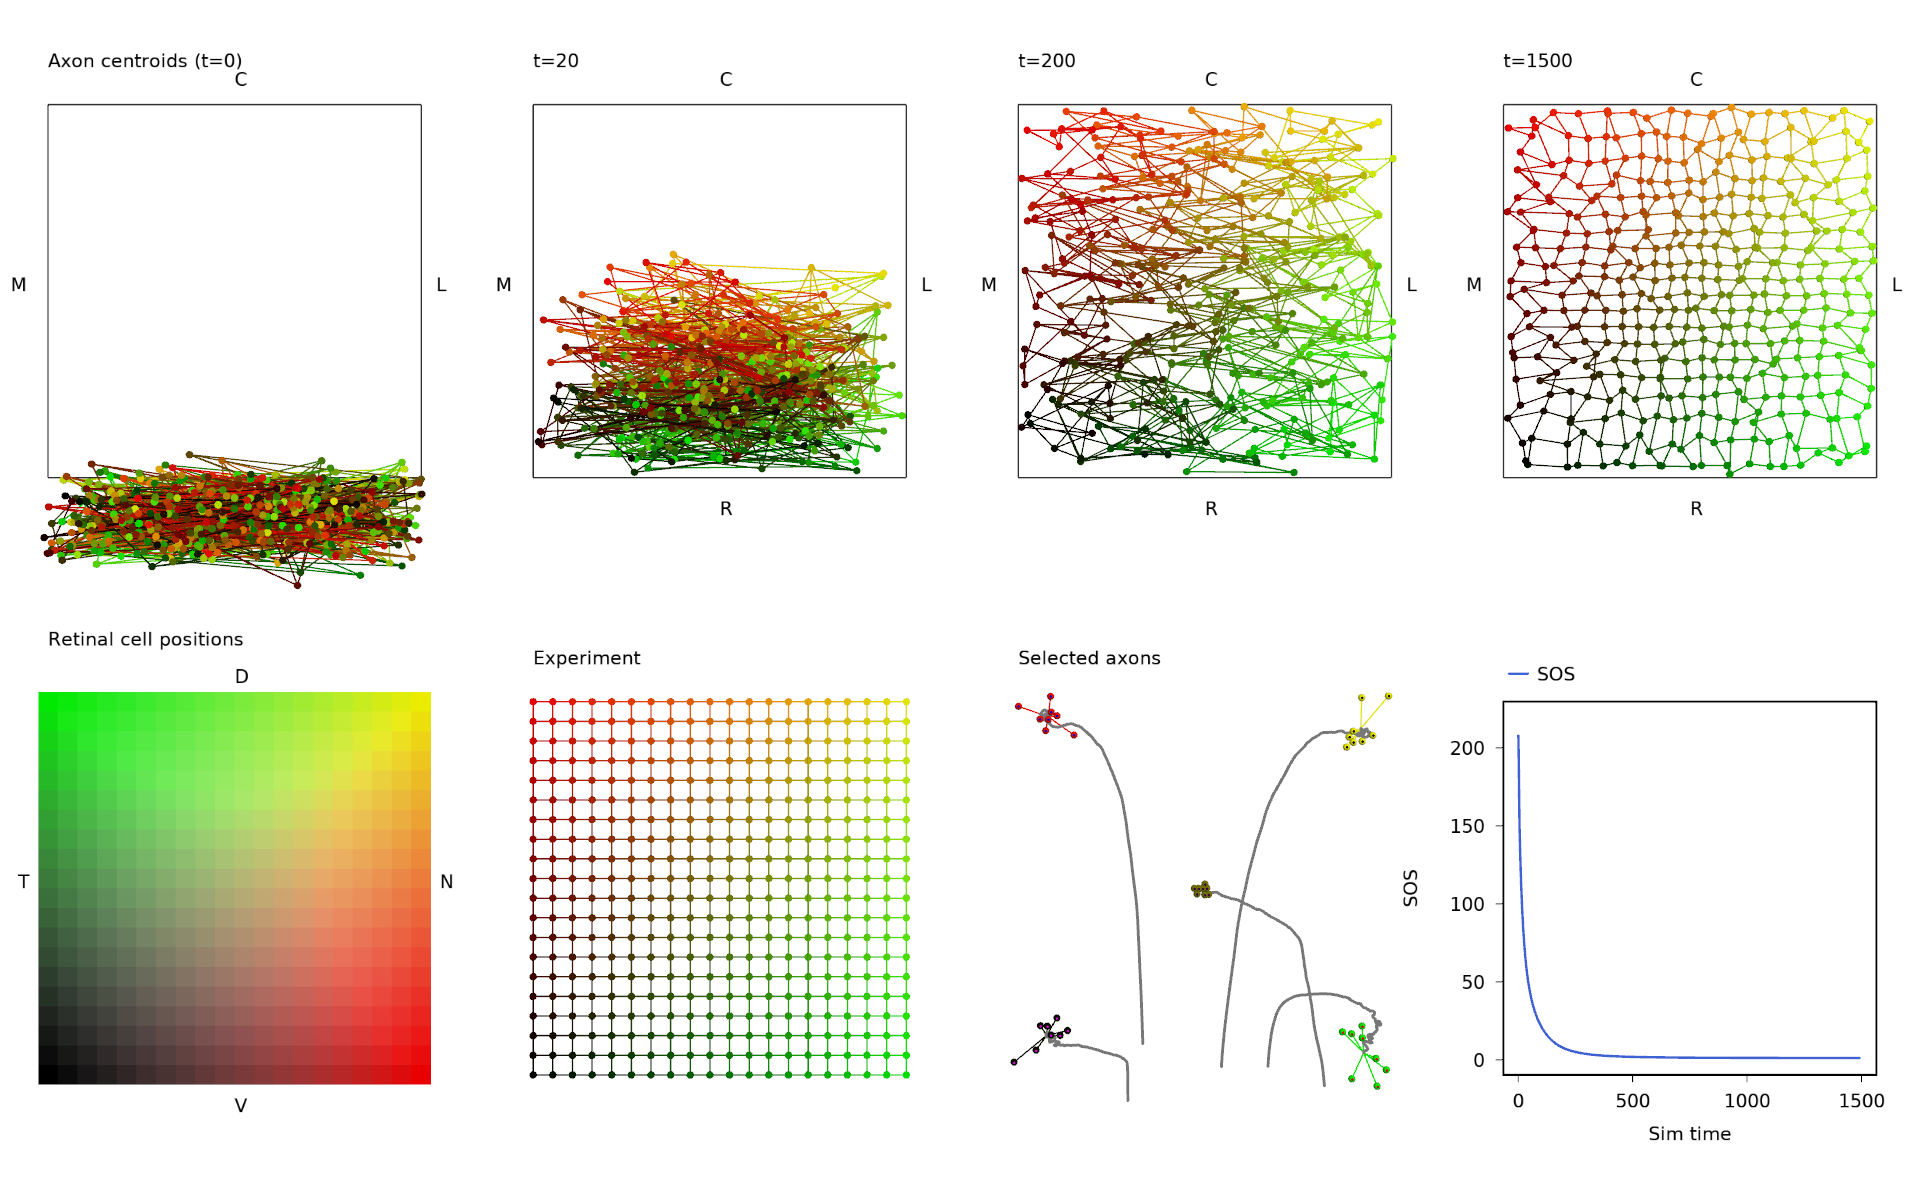
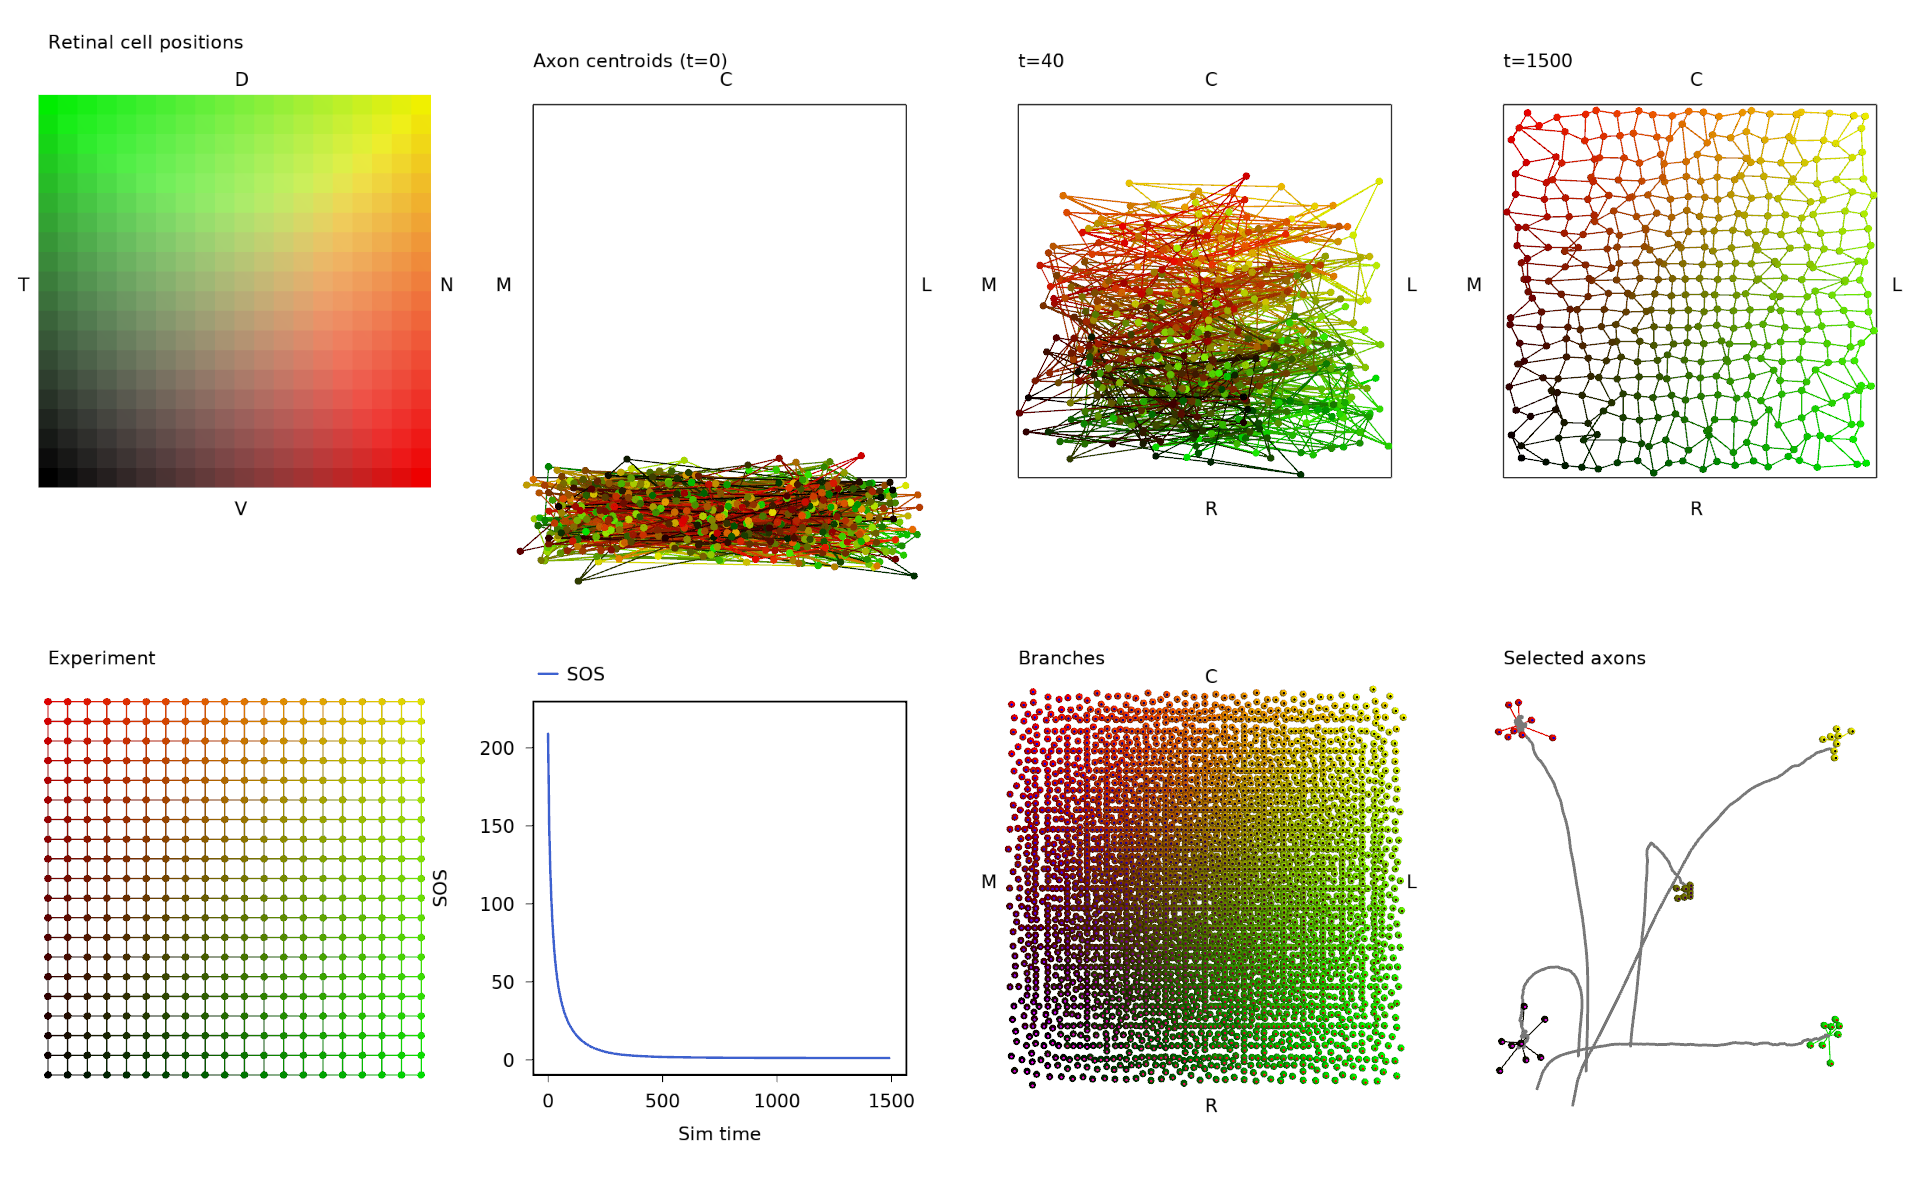
Final Tuesday updates/WIP

diff --git a/sim/agent/agent1.h b/sim/agent/agent1.h
@@ -163,14 +163,12 @@ struct Agent1
             glfwPollEvents();
         }
 
-        if (this->layout != graph_layout::c) {
-            this->bv->reinit(); // Branches
-        }
+        this->bv->reinit(); // Branches
 
         // Centroids that should show up to a certain time
         if (this->layout == graph_layout::c) {
             if (stepnum <= this->freeze_times[1]) { this->cv1->reinit(); }
-            if (stepnum <= this->freeze_times[2]) { this->cv2->reinit(); }
+            //if (stepnum <= this->freeze_times[2]) { this->cv2->reinit(); }
             //if (stepnum <= this->freeze_times[3]) { this->cv3->reinit(); }
         }
         this->cv->reinit(); // Centroids to end
@@ -1000,45 +998,19 @@ struct Agent1
 
         } else  if (this->layout == graph_layout::c) { // Layout with diff. time end points
 
-            offset[1] -= 1.6f;
-
             // A Retinal cell positions
             v->addVisualModel (this->createTissueVisual (v->shaderprog, v->tshaderprog, offset, ret, "Retinal", expression_view::cell_positions, 0, 2));
 
+            offset[1] -= 1.6f;
+
             // B Experiment: Another NetVisual view showing the target locations
-            offset[0] += 1.3f;
             this->tcv = new NetVisual<T> (v->shaderprog, v->tshaderprog, offset, &this->ax_centroids);
             this->tcv->viewmode = netvisual_viewmode::targetplus;
             this->tcv->finalize();
             this->tcv->addLabel ("Experiment", {0.0f, 1.1f, 0.0f});
             v->addVisualModel (this->tcv);
 
-            // C Selected axons: This one gives an 'axon view'
             offset[0] += 1.3f;
-            this->av = new BranchVisual<T, N, B> (v->shaderprog, v->tshaderprog, offset, &this->branches, &this->ax_history);
-            this->av->axonview = true;
-            for (auto sa : this->seeaxons) { this->av->seeaxons.insert(sa); }
-            this->av->rcpt_scale.compute_autoscale (rcpt_min, rcpt_max);
-            this->av->target_scale.compute_autoscale (0, 1);
-            this->av->finalize();
-            this->av->addLabel ("Selected axons", {0.0f, 1.1f, 0.0f});
-            v->addVisualModel (this->av);
-
-            offset[0] += 1.3f;
-
-            // D Graph: A graph of the SOS diffs between axon position centroids and target positions from retina
-            this->gv = new morph::GraphVisual<T> (v->shaderprog, v->tshaderprog, offset);
-            this->gv->twodimensional = false;
-            this->gv->setlimits (0, this->conf->getFloat ("steps", 1000),
-                                 0, this->conf->getFloat("graph_ymax", 200.0f));
-            this->gv->policy = morph::stylepolicy::lines;
-            this->gv->ylabel = "SOS";
-            this->gv->xlabel = "Sim time";
-            this->gv->prepdata ("SOS");
-            this->gv->finalize();
-            v->addVisualModel (this->gv);
-
-            offset[0] -= 3.9f;
             offset[1] += 1.6f;
 
             // t=0
@@ -1062,6 +1034,7 @@ struct Agent1
             this->addOrientationLabels (this->cv1, std::string("Tectal"));
             v->addVisualModel (this->cv1);
 
+#if 0
             // Axon centroids2: Centroids of branches viewed with a NetVisual
             offset[0] += 1.3f;
             this->cv2 = new NetVisual<T> (v->shaderprog, v->tshaderprog, offset, &this->ax_centroids);
@@ -1074,7 +1047,6 @@ struct Agent1
             this->addOrientationLabels (this->cv2, std::string("Tectal"));
             v->addVisualModel (this->cv2);
 
-#if 0
             // Axon centroids3: Centroids of branches viewed with a NetVisual
             offset[0] += 1.3f;
             this->cv3 = new NetVisual<T> (v->shaderprog, v->tshaderprog, offset, &this->ax_centroids);
@@ -1098,6 +1070,41 @@ struct Agent1
             this->addOrientationLabels (this->cv, std::string("Tectal"));
             v->addVisualModel (this->cv);
 
+            offset[0] -= 2.6f;
+            offset[1] -= 1.6f;
+
+            // D Graph: A graph of the SOS diffs between axon position centroids and target positions from retina
+            this->gv = new morph::GraphVisual<T> (v->shaderprog, v->tshaderprog, offset);
+            this->gv->twodimensional = false;
+            this->gv->setlimits (0, this->conf->getFloat ("steps", 1000),
+                                 0, this->conf->getFloat("graph_ymax", 200.0f));
+            this->gv->policy = morph::stylepolicy::lines;
+            this->gv->ylabel = "SOS";
+            this->gv->xlabel = "Sim time";
+            this->gv->prepdata ("SOS");
+            this->gv->finalize();
+            v->addVisualModel (this->gv);
+
+            // Branches: Visualise the branches with a custom VisualModel
+            offset[0] += 1.3f;
+            this->bv = new BranchVisual<T, N, B> (v->shaderprog, v->tshaderprog, offset, &this->branches, &this->ax_history);
+            this->bv->rcpt_scale.compute_autoscale (rcpt_min, rcpt_max);
+            this->bv->target_scale.compute_autoscale (0, 1);
+            this->bv->finalize();
+            this->bv->addLabel ("Branches", {0.0f, 1.1f, 0.0f});
+            this->addOrientationLabels (this->bv, std::string("Tectal"));
+            v->addVisualModel (this->bv);
+
+            // C Selected axons: This one gives an 'axon view'
+            offset[0] += 1.3f;
+            this->av = new BranchVisual<T, N, B> (v->shaderprog, v->tshaderprog, offset, &this->branches, &this->ax_history);
+            this->av->axonview = true;
+            for (auto sa : this->seeaxons) { this->av->seeaxons.insert(sa); }
+            this->av->rcpt_scale.compute_autoscale (rcpt_min, rcpt_max);
+            this->av->target_scale.compute_autoscale (0, 1);
+            this->av->finalize();
+            this->av->addLabel ("Selected axons", {0.0f, 1.1f, 0.0f});
+            v->addVisualModel (this->av);
 
         } else {
             throw std::runtime_error ("Unknown layout");

diff --git a/paper/paper.tex b/paper/paper.tex
@@ -569,32 +569,62 @@ derived from a normal distribution of mean 0 and standard deviation 0.1.
 \label{f:wt}
 \end{figure}
 
-To enable a simulation it is necessary to make the assumptions, in addition to
-those implicit in the description of the model above, that i) All
+To enable a simulation it is necessary to make the assumptions (in addition to
+those implicit in the description of the model above) that i) All
 receptor-ligand interactions are repulsive, as for EphA-ephrinA
 coupling \citep{drescher_vitro_1995,nakamoto_topographically_1996}; and ii)
 all tectal ligand expressions vary exponentially along a given axis, following
 Eq.\,\ref{e:tecexp}. The result of running this system are presented in
 Fig.\,\ref{f:wt}.
 %
-Fig.\,\ref{f:wt}A shows a dual-colour map of retinal ganglion cell positions
+Fig.\,\ref{f:wt}Ai shows a dual-colour map of retinal ganglion cell positions
 on the square retina, with red encoding position on the $x$ axis (temporal to
 nasal) and green encoding position on the $y$ axis (ventral to
-dorsal). Fig.\,\ref{f:wt}B presents a fishnet plot of the expected location on
+dorsal). Fig.\,\ref{f:wt}Aii presents a fishnet plot of the expected location on
 the tectal surface of each RGC at the end of the development process. Thus,
 the `red' RGC from the ventro-nasal corner should map to the caudo-medial
 corner of the tectum and the `green' RGC from the dorso-temporal corner should
 find its way to the rostro-lateral corner on the tectum. The lines between the
-dots of Fig.\,\ref{f:wt}B indicate the adjacency relationships between
-cells. Thus, colour in each panel indicates a branch's location of origin on
-the retina.
+dots of Fig.\,\ref{f:wt}Aii indicate the adjacency relationships between
+cells. Thus, colour in each panel indicates a branch or axon's location of
+origin on the retina.
 %
-Fig.\,\ref{f:wt}C shows the initial state of the system, with branches
+Fig.\,\ref{f:wt}B shows the initial state of the system, with branches
 stochastically arranged around the rostral edge of the tectum. Each dot
-represents the centroid of $n=8$ branches per RGC axon. Figs.\,\ref{f:wt}D-E
-show the development of the system with time, with Fig.\,\ref{f:wt}E showing
+represents the centroid of $n=8$ branches per RGC axon. Figs.\,\ref{f:wt}C and \ref{f:wt}D
+show the development of the system with time, with Fig.\,\ref{f:wt}D showing a
+well ordered arrangement, with a majority of adjacency relationships matching
+the experimental prediction (i.e. there are few crossed lines). The
+intermediate timepoint at $t=40$ indicates that branches quickly cover the simulated
+tectal surface, with final adjacency relationships developing over a longer
+timescale. This dynamic behaviour is also evident in Fig.\,\ref{f:wt}E, which
+shows \textbf{RMS error or some metric} of the axon centroids with respect to
+the experimental prediction. Fig.\,\ref{f:wt}F shows the final
+location of each branch in the simulation, which gives a more continuous view
+of the order present in Fig.\,\ref{f:wt}D. Finally, Fig.\,\ref{f:wt}G shows the
+branches and their centroid path history for five selected RGCs, with path
+histories strongly resembling those presented by \citet{simpson_simple_2011}.
 
-\subsection*{Chemoaffinity---Wildtype}
+This result shows that a gradient following model based on receptor-ligand
+interactions and incorporating axon-axon repulsion is able to generate the
+basic mapping observed in the retinotectal projection.
+
+\subsection*{Manipulations}
+
+To determine if the model can explain the many surgical and genetic
+manipulations described in the literature
+\citep*[for a review, see][]{goodhill_retinotectal_1999} we performed
+simulations matching those in \citet{simpson_simple_2011} where we either
+rotated or translocated grafts of the tectum, ablated portions of the retina
+and/or the tectum or manipulated the receptor or ligand expressions in the
+model...
+
+
+\subsection*{Grating simulations}
+
+I'd like to do this if it's not too much work!
+
+\subsection*{Is chemoaffinity alone sufficient to explain the retinotectal projection?}
 
 Introductory sentence.
 
